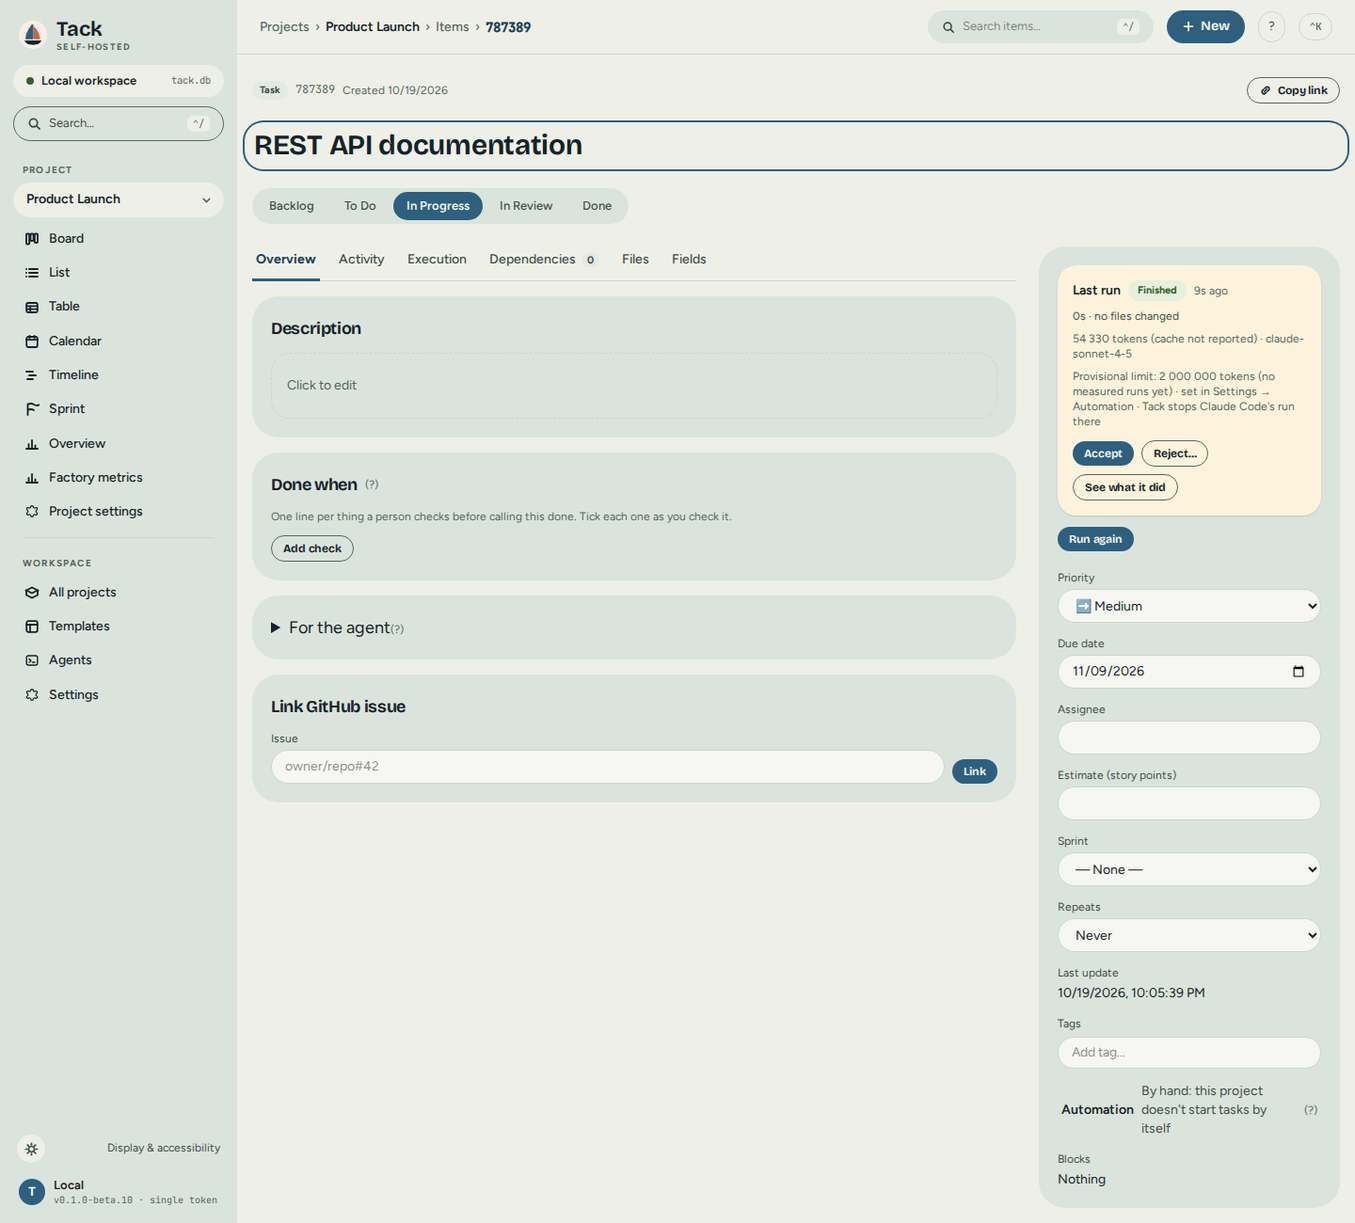
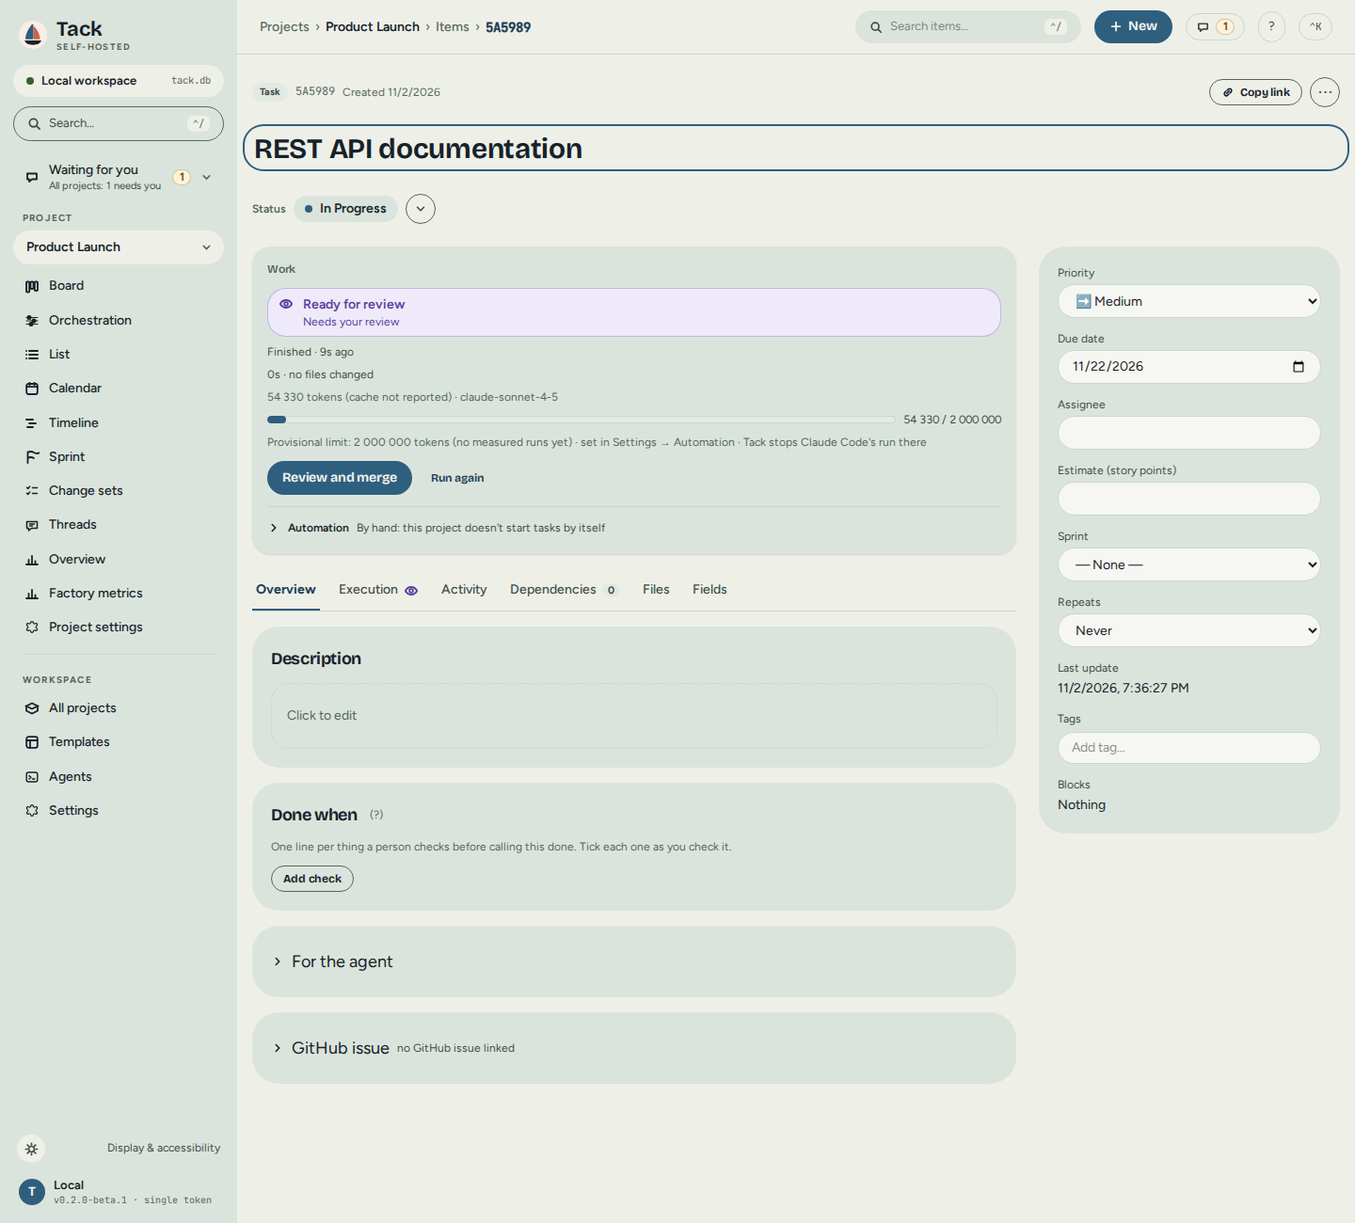
Docs: retake the book's screenshots from the current UI and describe what they show
The README and book images come from make screenshots (no model call): board, item page, brief, run dialog, decision inbox, merge-readiness pack, factory metrics and automation. The recorder's two anchors followed the screen (a pending question sits under Needs you; the pack is the Verdict region). Alt texts say what is on screen now, and the book calls the item panel Work, as the screen does.

diff --git a/frontend/e2e/screenshots.spec.ts b/frontend/e2e/screenshots.spec.ts
@@ -401,7 +401,7 @@ test.describe.serial('README screenshots', () => {
     const drawer = page.getByRole('dialog');
     await drawer.getByRole('tab', { name: 'Execution' }).click();
     await expect(drawer.getByText('Recommended', { exact: true }).first()).toBeVisible({ timeout: 10_000 });
-    await drawer.getByRole('heading', { name: 'Questions from the agent' }).evaluate((h) => h.scrollIntoView({ block: 'start' }));
+    await drawer.getByRole('heading', { name: 'Needs you', level: 4 }).first().evaluate((h) => h.scrollIntoView({ block: 'start' }));
     await page.waitForTimeout(400);
     await drawer.screenshot({ path: path.join(OUT_DIR, 'decision-inbox.png') });
   });
@@ -413,7 +413,7 @@ test.describe.serial('README screenshots', () => {
     const drawer = page.getByRole('dialog');
     await drawer.getByRole('tab', { name: 'Execution' }).click();
     await expect(drawer.getByText(/^Recommendation:/).first()).toBeVisible({ timeout: 10_000 });
-    await drawer.getByText('Merge-readiness pack', { exact: true }).evaluate((h) => h.scrollIntoView({ block: 'start' }));
+    await drawer.getByRole('region', { name: 'Verdict' }).first().evaluate((h) => h.scrollIntoView({ block: 'start' }));
     await page.waitForTimeout(400);
     await drawer.screenshot({ path: path.join(OUT_DIR, 'merge-readiness.png') });
   });

diff --git a/docs/book/src/user-guide/items.md b/docs/book/src/user-guide/items.md
@@ -25,7 +25,7 @@ At the top of the drawer, the **header** shows:
 
 Under the header, the **Now** panel comes first. It shows the item's latest run as one state, with an icon and a word (Queued, Running, Needs you, Ready for review, Finished, Failed or Cancelled), one sentence about it, a bar for the tokens it has used against its limit, and the one filled button for what comes next: **Run with agent** for an item that never ran (with a line under it saying which agent and team would take it), **Answer the question** when the agent is waiting for you, **Review and merge** when the run is ready, **See why it failed** when it failed, and **Run again** once it is finished. Stopping a run and following it live are quieter buttons beside it, and starting another run is always one press away. At the foot of the panel, the **Automation** fold says in one muted line what happens to the item without you; opened, it holds the full line, its help and **Who does it** (see [Roles and the Automation row](#roles-and-the-automation-row)). On the Overview tab, **For the agent** and **GitHub issue** are folds too.
 
-Every part of the drawer that is history, or that you rarely change, is a fold: a header with a chevron that you press to open, and that says in one line what is inside while it is shut ("Details · High · Ana", "Automation · By hand: this project doesn't start tasks by itself", "GitHub issue · no GitHub issue linked"). The folds are **Details**, **Automation**, **For the agent** and **GitHub issue** on the item, and **Steps**, **Activity**, **Files from this run**, **Usage** and **Technical** on a run. What needs a decision stays open: the status, the Now panel and the Done when list. A fold whose content needs you says so in its header ("Automation · needs you: the role Content has no profile") and opens by itself. The browser remembers whether you opened or shut each kind of fold, and your choice wins over the default.
+Every part of the drawer that is history, or that you rarely change, is a fold: a header with a chevron that you press to open, and that says in one line what is inside while it is shut ("Details · High · Ana", "Automation · By hand: this project doesn't start tasks by itself", "GitHub issue · no GitHub issue linked"). The folds are **Details**, **Automation**, **For the agent** and **GitHub issue** on the item, and **Steps**, **Activity**, **Files from this run**, **Usage** and **Technical** on a run. What needs a decision stays open: the status, the Work panel and the Done when list. A fold whose content needs you says so in its header ("Automation · needs you: the role Content has no profile") and opens by itself. The browser remembers whether you opened or shut each kind of fold, and your choice wins over the default.
 
 Below the tabs, the **Details** fold holds the properties: **Priority**, **Due date**, **Assignee**, **Estimate**, **Sprint**, **Repeats**, the **last update**, **Tags** (type a tag and press `Enter` to add; click the `×` on a tag to remove it) and what the item **blocks**, each with its name on the left and its value on the right. Shut, the fold still says the priority, the assignee and the due date. Every one but the last update and what the item blocks can be edited in place.
 
@@ -35,9 +35,9 @@ All edits save at once.
 
 ### The item's page
 
-**Expand** in the drawer's top bar opens the same item on a page of its own, at `/projects/<project>/items/<id>`, and closes the drawer. The page has a breadcrumb (Projects, the project, Items, the item), the Now panel and the tabs in a main column, and the properties list in a column at the side, with no Details fold. **Copy link** at the top right copies the page's address; the open tab is part of it, so a link opens on the same tab. A tab shows a number beside its name when it is already known, as Dependencies does.
+**Expand** in the drawer's top bar opens the same item on a page of its own, at `/projects/<project>/items/<id>`, and closes the drawer. The page has a breadcrumb (Projects, the project, Items, the item), the Work panel and the tabs in a main column, and the properties list in a column at the side, with no Details fold. **Copy link** at the top right copies the page's address; the open tab is part of it, so a link opens on the same tab. A tab shows a number beside its name when it is already known, as Dependencies does.
 
-<img src="../screenshots/item-page.png" width="98%" alt="An item on its page: the breadcrumb Projects, Product Launch, Items and the item's short id, Copy link at the top right, the title and its status, the tabs Overview, Activity, Execution, Dependencies, Files and Fields over the description and the Done when list, and a side column with the last run's card (Accept, Reject… and See what it did), Run again and the properties list.">
+<img src="../screenshots/item-page.png" width="98%" alt="An item on its page: the breadcrumb Projects, Product Launch, Items and the item's short id, Copy link at the top right, the title and its status In Progress, the Work panel reading Ready for review with Review and merge and Run again and the Automation line, the tabs Overview, Execution, Activity, Dependencies, Files and Fields over the description, the Done when list and the For the agent and GitHub issue folds, and the properties in a column at the side.">
 
 ---
 
@@ -55,7 +55,7 @@ Assignee, priority, estimate, sprint, due date and tags are in the Details fold 
 removes the link. A linked task can open its pull request and, with a GitHub token on the board, stays in
 step with the issue; see [Keeping GitHub issues in sync](import-export.md#keeping-github-issues-in-sync).
 
-<img src="../screenshots/brief.png" width="50%" alt="The Overview tab of an item: the description editor, a Done when checklist with one check and Add check, a collapsed For the agent section summarised as 3 checks, 3 limits and risk noted, and Link GitHub issue.">
+<img src="../screenshots/brief.png" width="50%" alt="An item in the drawer: its status, the Work panel saying nothing has run yet with a Run with agent button, the tabs, the description, a Done when list with one check to tick and Add check, a collapsed For the agent fold summarised as 3 checks, 3 limits and risk noted, a collapsed GitHub issue fold saying none is linked, and the Details fold.">
 
 ---
 
@@ -148,7 +148,7 @@ The closed task's activity says "Created the next one, due 2026-11-30" with the 
 
 A **role** says what kind of work a task is for, such as Content or Developer. A project's roles are created under **Settings → Roles**, and each role can be given an agent profile in [Automation](automation.md#teams). On a task, the **Fields** tab lists the project's roles with a checkbox for each; ticking one gives the task that role. A task with no role is never started by itself, but you can always run it by hand.
 
-The **Automation** line at the foot of the Now panel says in one line what happens to this task without you, for example "Starts by itself when it reaches To Do · Team saas-content · Merge L3" or "By hand: this project doesn't start tasks by itself". After Tack acts on a task, badges say so on the board and the list. Both are explained in [What Tack shows when it acts](automation.md#what-tack-shows-when-it-acts).
+The **Automation** line at the foot of the Work panel says in one line what happens to this task without you, for example "Starts by itself when it reaches To Do · Team saas-content · Merge L3" or "By hand: this project doesn't start tasks by itself". After Tack acts on a task, badges say so on the board and the list. Both are explained in [What Tack shows when it acts](automation.md#what-tack-shows-when-it-acts).
 
 ---
 

diff --git a/docs/book/src/developer/runs-and-teams.md b/docs/book/src/developer/runs-and-teams.md
@@ -23,7 +23,7 @@ The numbered steps are what happens when a project has auto-start on and a task 
 
 1. **The tick.** `tack_app::auto_start::spawn` adds the loop beside the GitHub poll in `tack-cli`'s `serve.rs`. It calls `tick` every `AppConfig.auto_start_seconds` (`TACK_AUTO_START_SECONDS`, default 30, `0` starts nothing). The loop is its own task because the GitHub loop does not run without a token. `tick` lists the projects with `auto_start_enabled = 1`, not archived, with an `auto_start_status`, and calls `project_tick` for each.
 2. **The candidates.** `project_tick` reads the tasks in that status that have at least one role (`item_roles`) or a profile on the task and have no execution request at all (`queries::items::waiting_with_someone_to_do_it`: a task starts once). It finds the requests still open (`queued`, `leased`, `preparing`, `running`, `waiting_decision`), whether the daily budget is spent (`tack_app::scheduler_wiring::budget_reached`), and each task's unfinished blockers (`DependencyGraph::unfinished_blockers`). For each task it runs `resolve_profile` and `default_selector` (step 4) to learn whether a profile and a machine exist.
-3. **The choice.** `tack_core::auto_start::pick` is pure. It sorts by priority, then `sort_order`, and walks the list once. A task is skipped for the first reason that applies, in this order: `OpenRequest`, `Blocked(n)`, `NoProfile`, `NoMachine`, `Budget`, `MaxOpen`. `max_open` is the project's cap minus the runs already open. No column's WIP limit is read, because the tick moves nothing. Skips are logged at debug level and are not written to the task. `plan` builds the candidates and the `Limits` for both the tick and `explain`, which runs `pick` and turns each skip into a `Why` (`code` and a plain sentence from `tack_core::auto_start::why`) without starting anything. `GET /api/projects/{id}/auto-start` answers `{enabled, status, waiting: [{item_id, why: {code, text}}]}` from it: the tasks in the start status that the next pass would not start, most urgent first, with `code` one of `open_request`, `blocked`, `no_profile`, `no_machine`, `budget` or `max_open`. A project with auto-start off answers `enabled: false` and an empty list. An agent credential with `read` on the project may call it. The board card, the Now panel and the Automation line read it through `shared/state/autoStart.ts`, which loads it once per project and again on a board event.
+3. **The choice.** `tack_core::auto_start::pick` is pure. It sorts by priority, then `sort_order`, and walks the list once. A task is skipped for the first reason that applies, in this order: `OpenRequest`, `Blocked(n)`, `NoProfile`, `NoMachine`, `Budget`, `MaxOpen`. `max_open` is the project's cap minus the runs already open. No column's WIP limit is read, because the tick moves nothing. Skips are logged at debug level and are not written to the task. `plan` builds the candidates and the `Limits` for both the tick and `explain`, which runs `pick` and turns each skip into a `Why` (`code` and a plain sentence from `tack_core::auto_start::why`) without starting anything. `GET /api/projects/{id}/auto-start` answers `{enabled, status, waiting: [{item_id, why: {code, text}}]}` from it: the tasks in the start status that the next pass would not start, most urgent first, with `code` one of `open_request`, `blocked`, `no_profile`, `no_machine`, `budget` or `max_open`. A project with auto-start off answers `enabled: false` and an empty list. An agent credential with `read` on the project may call it. The board card, the Work panel and the Automation line read it through `shared/state/autoStart.ts`, which loads it once per project and again on a board event.
 4. **The request.** `start` builds a `CreateExecution` with `idempotency_key = "auto-start:<item>:<version>"` and `metadata.started_by = "auto_start"`. It names no profile, agent or selector. It sets `permission_policy` to the profile's tools for the agent and `network` from the profile (`tool_policy.network`, `tack_core::run_defaults::profile_network`; absent is `false`), and adds `approvals: "ask"` unless every machine the run may land on reports the agent's `sandbox` as `bwrap` or `harness` (`sandboxed_everywhere`). That is the Run dialog's rule. `start_run` then resolves the rest as for any other run, with the principal `auto_start`:
     - `resolve_profile` calls `tack_core::run_defaults::resolve` (next section) and records the source in `metadata.profile_source`.
     - The agent is the profile's `tool_policy.agent`, else the project's `default_harness`; with neither, the request is refused with `select_an_agent`.

diff --git a/docs/book/src/user-guide/running-agents.md b/docs/book/src/user-guide/running-agents.md
@@ -173,7 +173,7 @@ The [Tutorial](tutorial.md) walks through it with screenshots.
 The dialog is a pre-flight, not a form. What belongs to the computer or the project is decided and shown
 read-only, and each part links to the page that owns it, so nothing is asked twice.
 
-<img src="../screenshots/run-with-agent.png" width="60%" alt="The Run with agent dialog: one summary line saying which agent runs the task, in which profile, on which model and where it works; the section What the agent will read; two switches, Ask before each action and Web tools; and a collapsed Advanced section.">
+<img src="../screenshots/run-with-agent.png" width="60%" alt="The Run with agent dialog: Who does it, with the profiles of Claude Code as radio buttons (Implementer, Planner, Researcher, Reviewer); a What will happen summary of the agent and model, the branch, the install, the checks, the permissions and the network; two switches, Ask before each action and Web tools; the collapsed sections What the agent will read and Advanced for this run; and Cancel and Start run under the limit.">
 
 - **Who does it** is one compact list of every profile, each a radio button, grouped by the team it names
   or, for a profile with no team, by the agent that runs it (Claude Code, Codex, OpenCode or Docket). A team
@@ -348,7 +348,7 @@ you to approve it blind; the timeline says to answer it in docket, where it is s
 
 If you answer a question in docket itself, with its own command, instead of in Tack, the question here closes as **Answered in docket** and the timeline says so; it is not an expiry and it is not marked as your answer. The team goes on, and its next question appears here at once. This needs a docket recent enough to tell Tack when a question was settled; with an older one the question stays open here until the run ends.
 
-<img src="../screenshots/decision-inbox.png" width="50%" alt="A pending question on the Execution tab: the agent asks which chart library to add, offers uPlot, Apache ECharts and hand-written SVG, each with a description, a risk in red and an estimate in tokens, and marks uPlot as Recommended with its reasoning and evidence files; a Details field and a Resolve button sit below.">
+<img src="../screenshots/decision-inbox.png" width="50%" alt="A pending question under Needs you on the Execution tab: the agent asks which chart library to add, offers uPlot, Apache ECharts and hand-written SVG, each with a description, a risk in red and an estimate in tokens, and marks uPlot as Recommended with its reasoning and evidence files; a Details field and a Resolve button sit below, then the decision-token field.">
 
 Answering needs the **decision token**, a secret your administrator sets that is separate from the ordinary
 sign-in. Paste it into the field **Your decision token**, in **Waiting for you** in the sidebar or under the question in **Needs you**; the browser keeps it for the

diff --git a/docs/book/src/user-guide/quick-start.md b/docs/book/src/user-guide/quick-start.md
@@ -117,7 +117,7 @@ Nothing here runs an agent until you turn one on: **Run with agent** says "Agent
 2. **Tell the project where its code is.** If you answered **Does this project have code?** when you created it, this is done; otherwise open **Settings → Automation**. See [Where the agent works](automation.md#where-the-agent-works).
 3. **Open a task and click Run with agent**, then **Start run**. The defaults are the recommended ones. See [The Run with agent dialog](running-agents.md#the-run-with-agent-dialog).
 
-<img src="../screenshots/run-with-agent.png" width="60%" alt="The Run with agent dialog: a one-line summary of who runs it and where, the text the agent will read, two switches, and an Advanced section.">
+<img src="../screenshots/run-with-agent.png" width="60%" alt="The Run with agent dialog: the profile to run as, a What will happen summary of the agent, branch, checks and network, two switches, collapsed What the agent will read and Advanced sections, and a Start run button.">
 
 When the run ends, the task's **Execution** tab shows the attempt. If the agent changed anything, the task is marked **Needs your review** until you press **Accept** or **Reject**; see [Reviewing a Run](reviewing-runs.md). To start a run from a terminal, see [Running from the command line](running-agents.md#running-from-the-command-line). To start the server with agents already on, run `tack serve --with-runner`.
 

diff --git a/docs/book/src/user-guide/automation.md b/docs/book/src/user-guide/automation.md
@@ -273,7 +273,7 @@ When Tack acts without you, it tells you in three places.
 
 Hover a badge for a one-sentence explanation.
 
-**The task's Automation row**, the last line of the Now panel in the task drawer, says what happens to this task
+**The task's Automation row**, the last line of the Work panel in the task drawer, says what happens to this task
 without you:
 
 - "Starts by itself when it reaches To Do · Team saas-content · Merge L3", when the project starts tasks by
@@ -300,7 +300,7 @@ without you:
 
 These are the folded sections above the ladder. Each saves as soon as you change it.
 
-<img src="../screenshots/automation.png" width="60%" alt="The Automation tab of a project's settings: where the code is, how the agent works on it, the push switch, the default profile, and the Definition of done.">
+<img src="../screenshots/automation.png" width="60%" alt="The Automation tab of a project's settings: the Autonomy ladder with L3 set and L4 and L5 blocked, what stops this project reaching a higher rung, the jump links Who, When, Merge, Limits and Agents, and the Who section with the agent, the teams, where the code is and how the agent works on it, above the When section.">
 
 ### Where the code is
 

diff --git a/docs/book/src/user-guide/reviewing-runs.md b/docs/book/src/user-guide/reviewing-runs.md
@@ -206,7 +206,7 @@ When a verifier checks an attempt, it leaves a merge-readiness pack. Its parts a
 each where it is read: the recommendation and risk in the verdict, the criteria and the rest of what the
 verifier ran under **Checks**, and whether it was signed under **Technical**.
 
-<img src="../screenshots/merge-readiness.png" width="50%" alt="A merge-readiness pack on a succeeded attempt: Recommendation merge, Risk low, three reasons, a criteria table with every criterion passed and its evidence file, the verify command with exit code 0, mutation score, static analysis counts, a blind judge's verdicts, and Your review with a required reason before Accept or Reject.">
+<img src="../screenshots/merge-readiness.png" width="50%" alt="A merge-readiness pack on a finished run: Recommendation merge and Risk low, the box waiting for your verdict with a required reason and the Accept and Reject buttons, Checks reading 6 of 6 checks passed with a How we know line under each, Why this risk, the verify command with exit code 0, and the Changes, Steps, Files from this run and Technical sections.">
 
 It shows:
 

diff --git a/docs/book/src/user-guide/views.md b/docs/book/src/user-guide/views.md
@@ -246,4 +246,4 @@ cost, how many changes were accepted and merged, and what the runs cost. A card 
 measure says **Not measured** and why, never `0`. Every card is defined in
 [Factory metrics](reviewing-runs.md#factory-metrics).
 
-<img src="../screenshots/factory-metrics.png" width="98%" alt="The Factory metrics page: escalation rate 50% (1 decision / 2 attempts), human minutes per decision Not measured with its reason, human minutes per pack review, pack acceptance rate 100%, verification tax 4.2% in tokens with its inputs, and pull-request outcomes.">
+<img src="../screenshots/factory-metrics.png" width="98%" alt="The Factory metrics page: escalation rate 50% (1 decision / 2 attempts), human minutes per decision Not measured with its reason, decided alone 0%, human minutes per pack review, pack acceptance rate 100%, verification tax 4.2% in tokens with its inputs, pull-request outcomes, and a cost card that says Not measured.">

diff --git a/docs/book/src/user-guide/tutorial.md b/docs/book/src/user-guide/tutorial.md
@@ -162,7 +162,7 @@ The drawer follows the run as it happens: the **Now** panel under the header rea
 with the runner that took it. What the agent did, the tokens it used and its cost appear when it
 finishes:
 
-<img src="../screenshots/tutorial/13-execution-running.png" width="98%" alt="The task drawer mid-run: the card's chip on the board reads Running, and the Now panel at the top of the drawer reads Running, 'The agent is working on it', 'Used 0 of 2 000 000 tokens', with Follow live and Stop buttons and a Run again button below it.">
+<img src="../screenshots/tutorial/13-execution-running.png" width="98%" alt="The task drawer mid-run: the card's chip on the board reads Running, and the Work panel at the top of the drawer reads Running, 'The agent is working on it', 'Used 0 of 2 000 000 tokens', with Follow live and Stop buttons and a Run again button below it.">
 
 ## 10. See the result
 

diff --git a/README.md b/README.md
@@ -3,7 +3,7 @@
 **An open-source project manager that can assign tasks to AI agents.**
 
 <p align="center">
-  <img src="docs/screenshots/board.png" width="98%" alt="The Tack board: Kanban columns with WIP limits, a run button on every card, and two cards carrying an agent run's live state, Asking you and Finished" />
+  <img src="docs/screenshots/board.png" width="98%" alt="The Tack board: Kanban columns with WIP limits, a run button on every card, a strip counting the work that needs you, and two cards carrying an agent run's state, Needs you and Finished" />
 </p>
 
 <p align="center">
